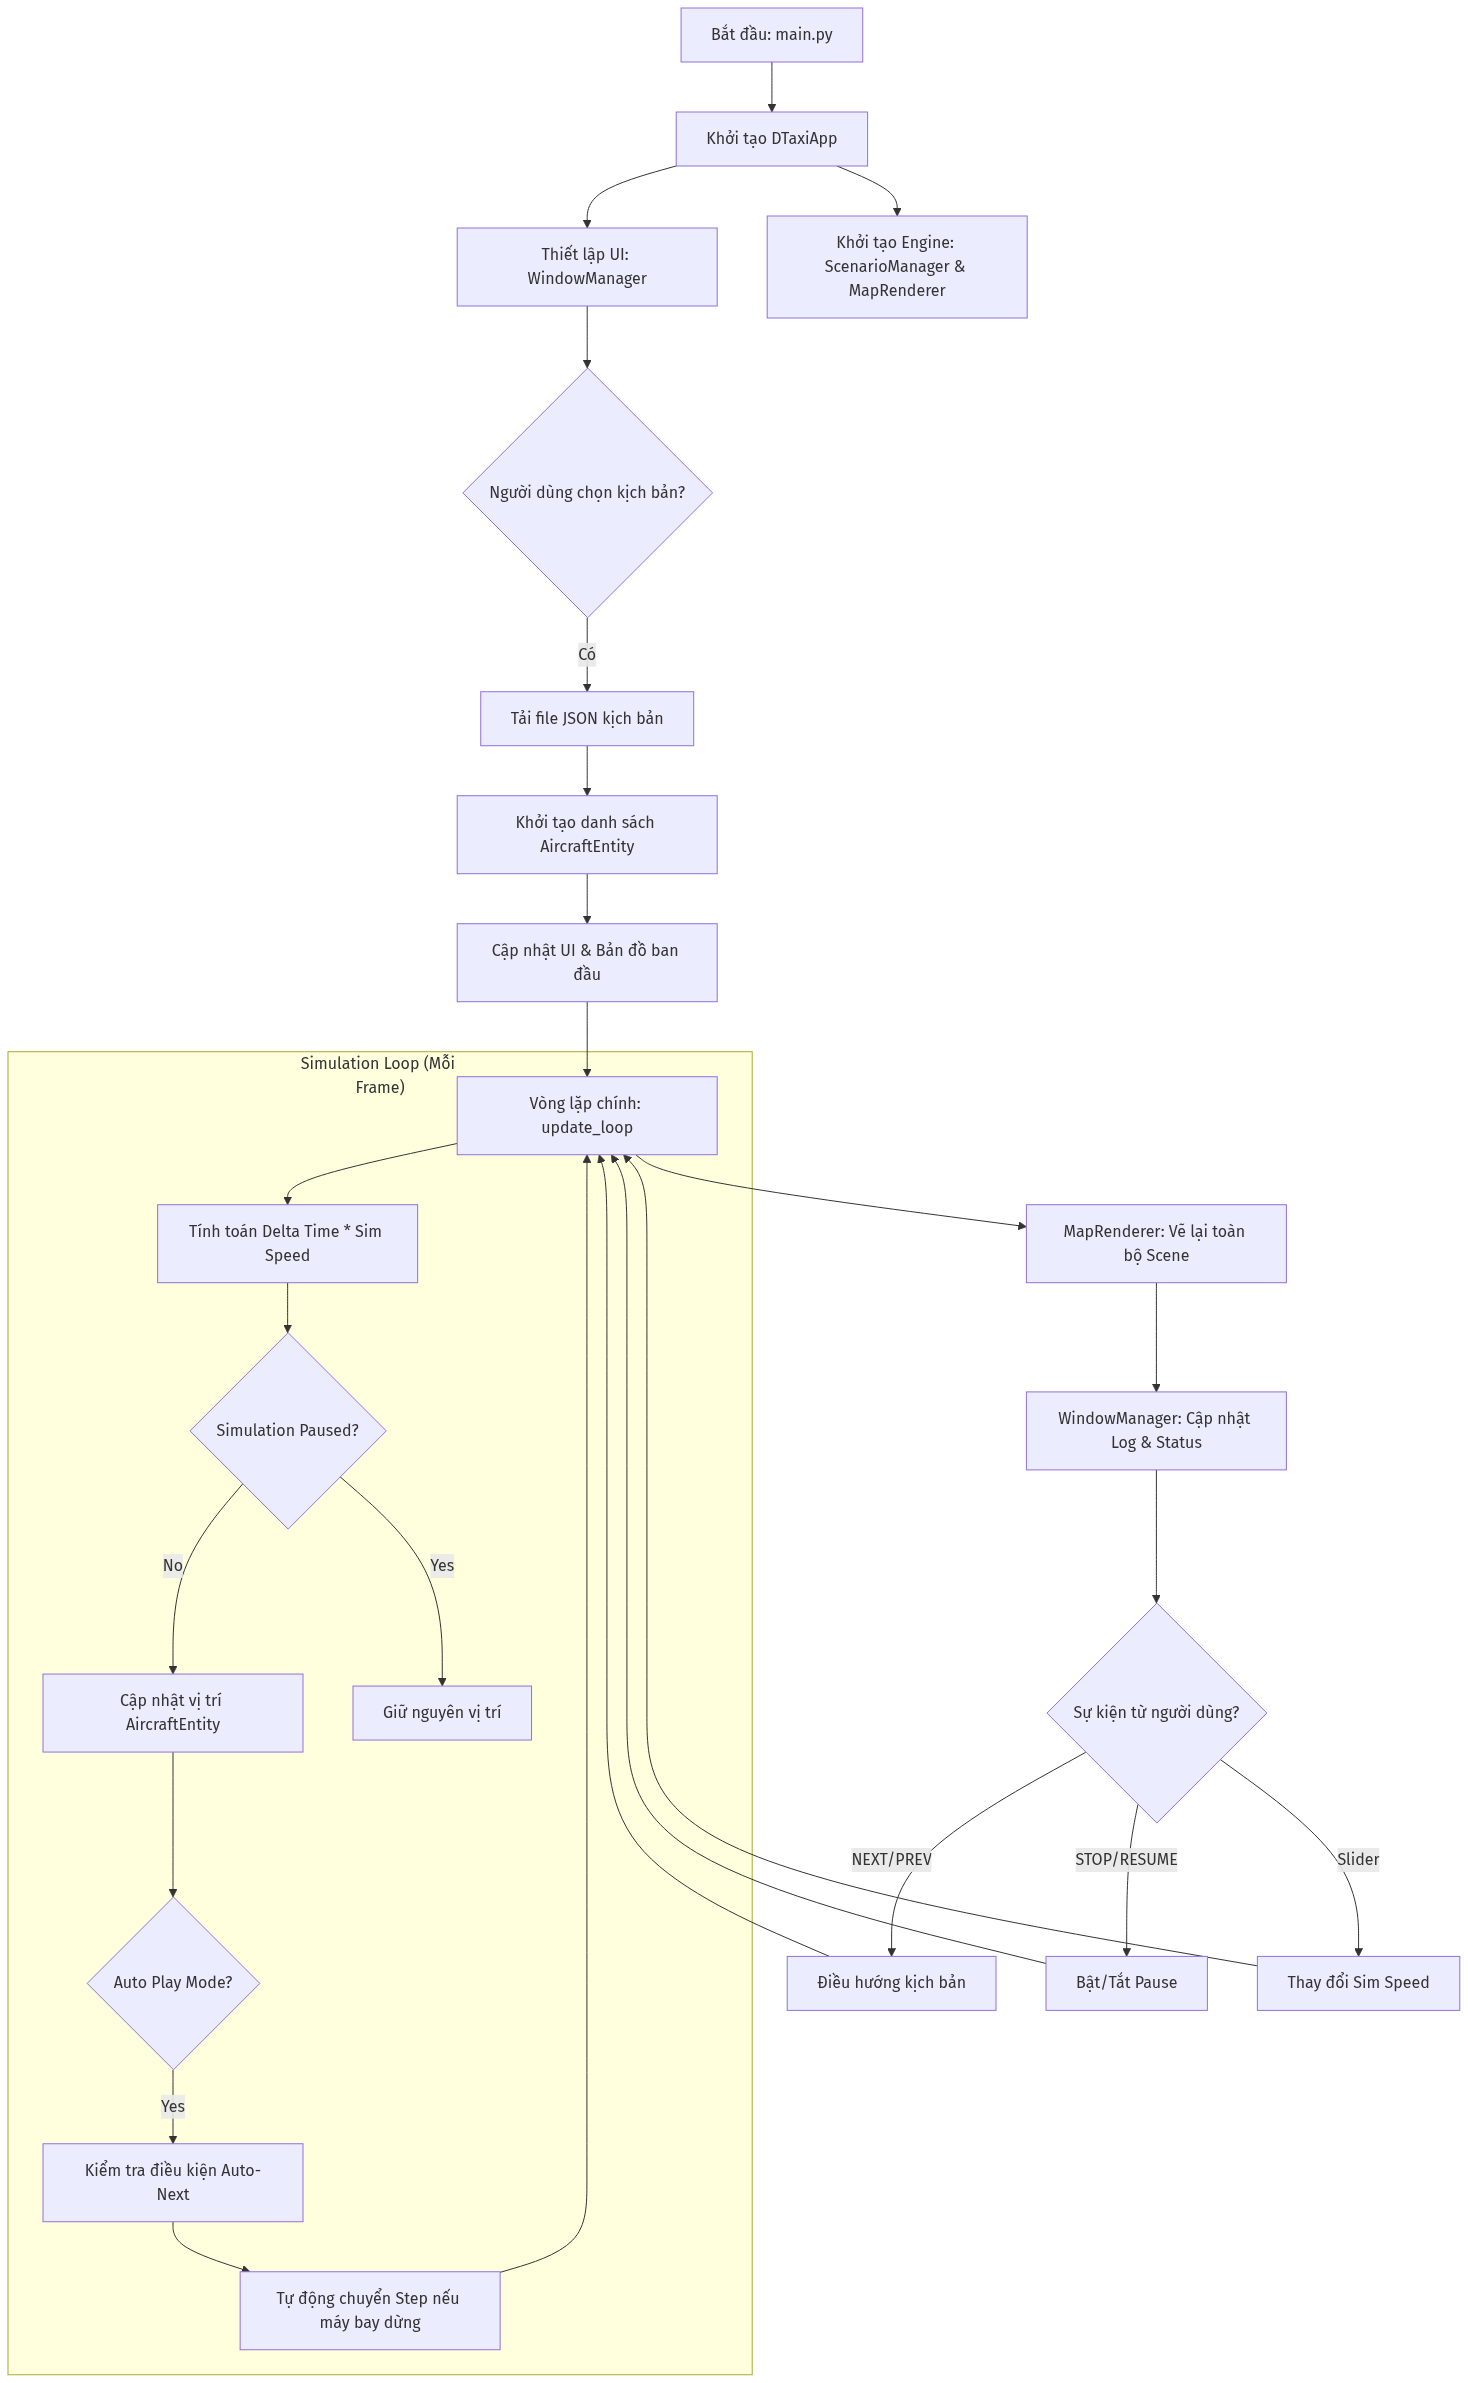
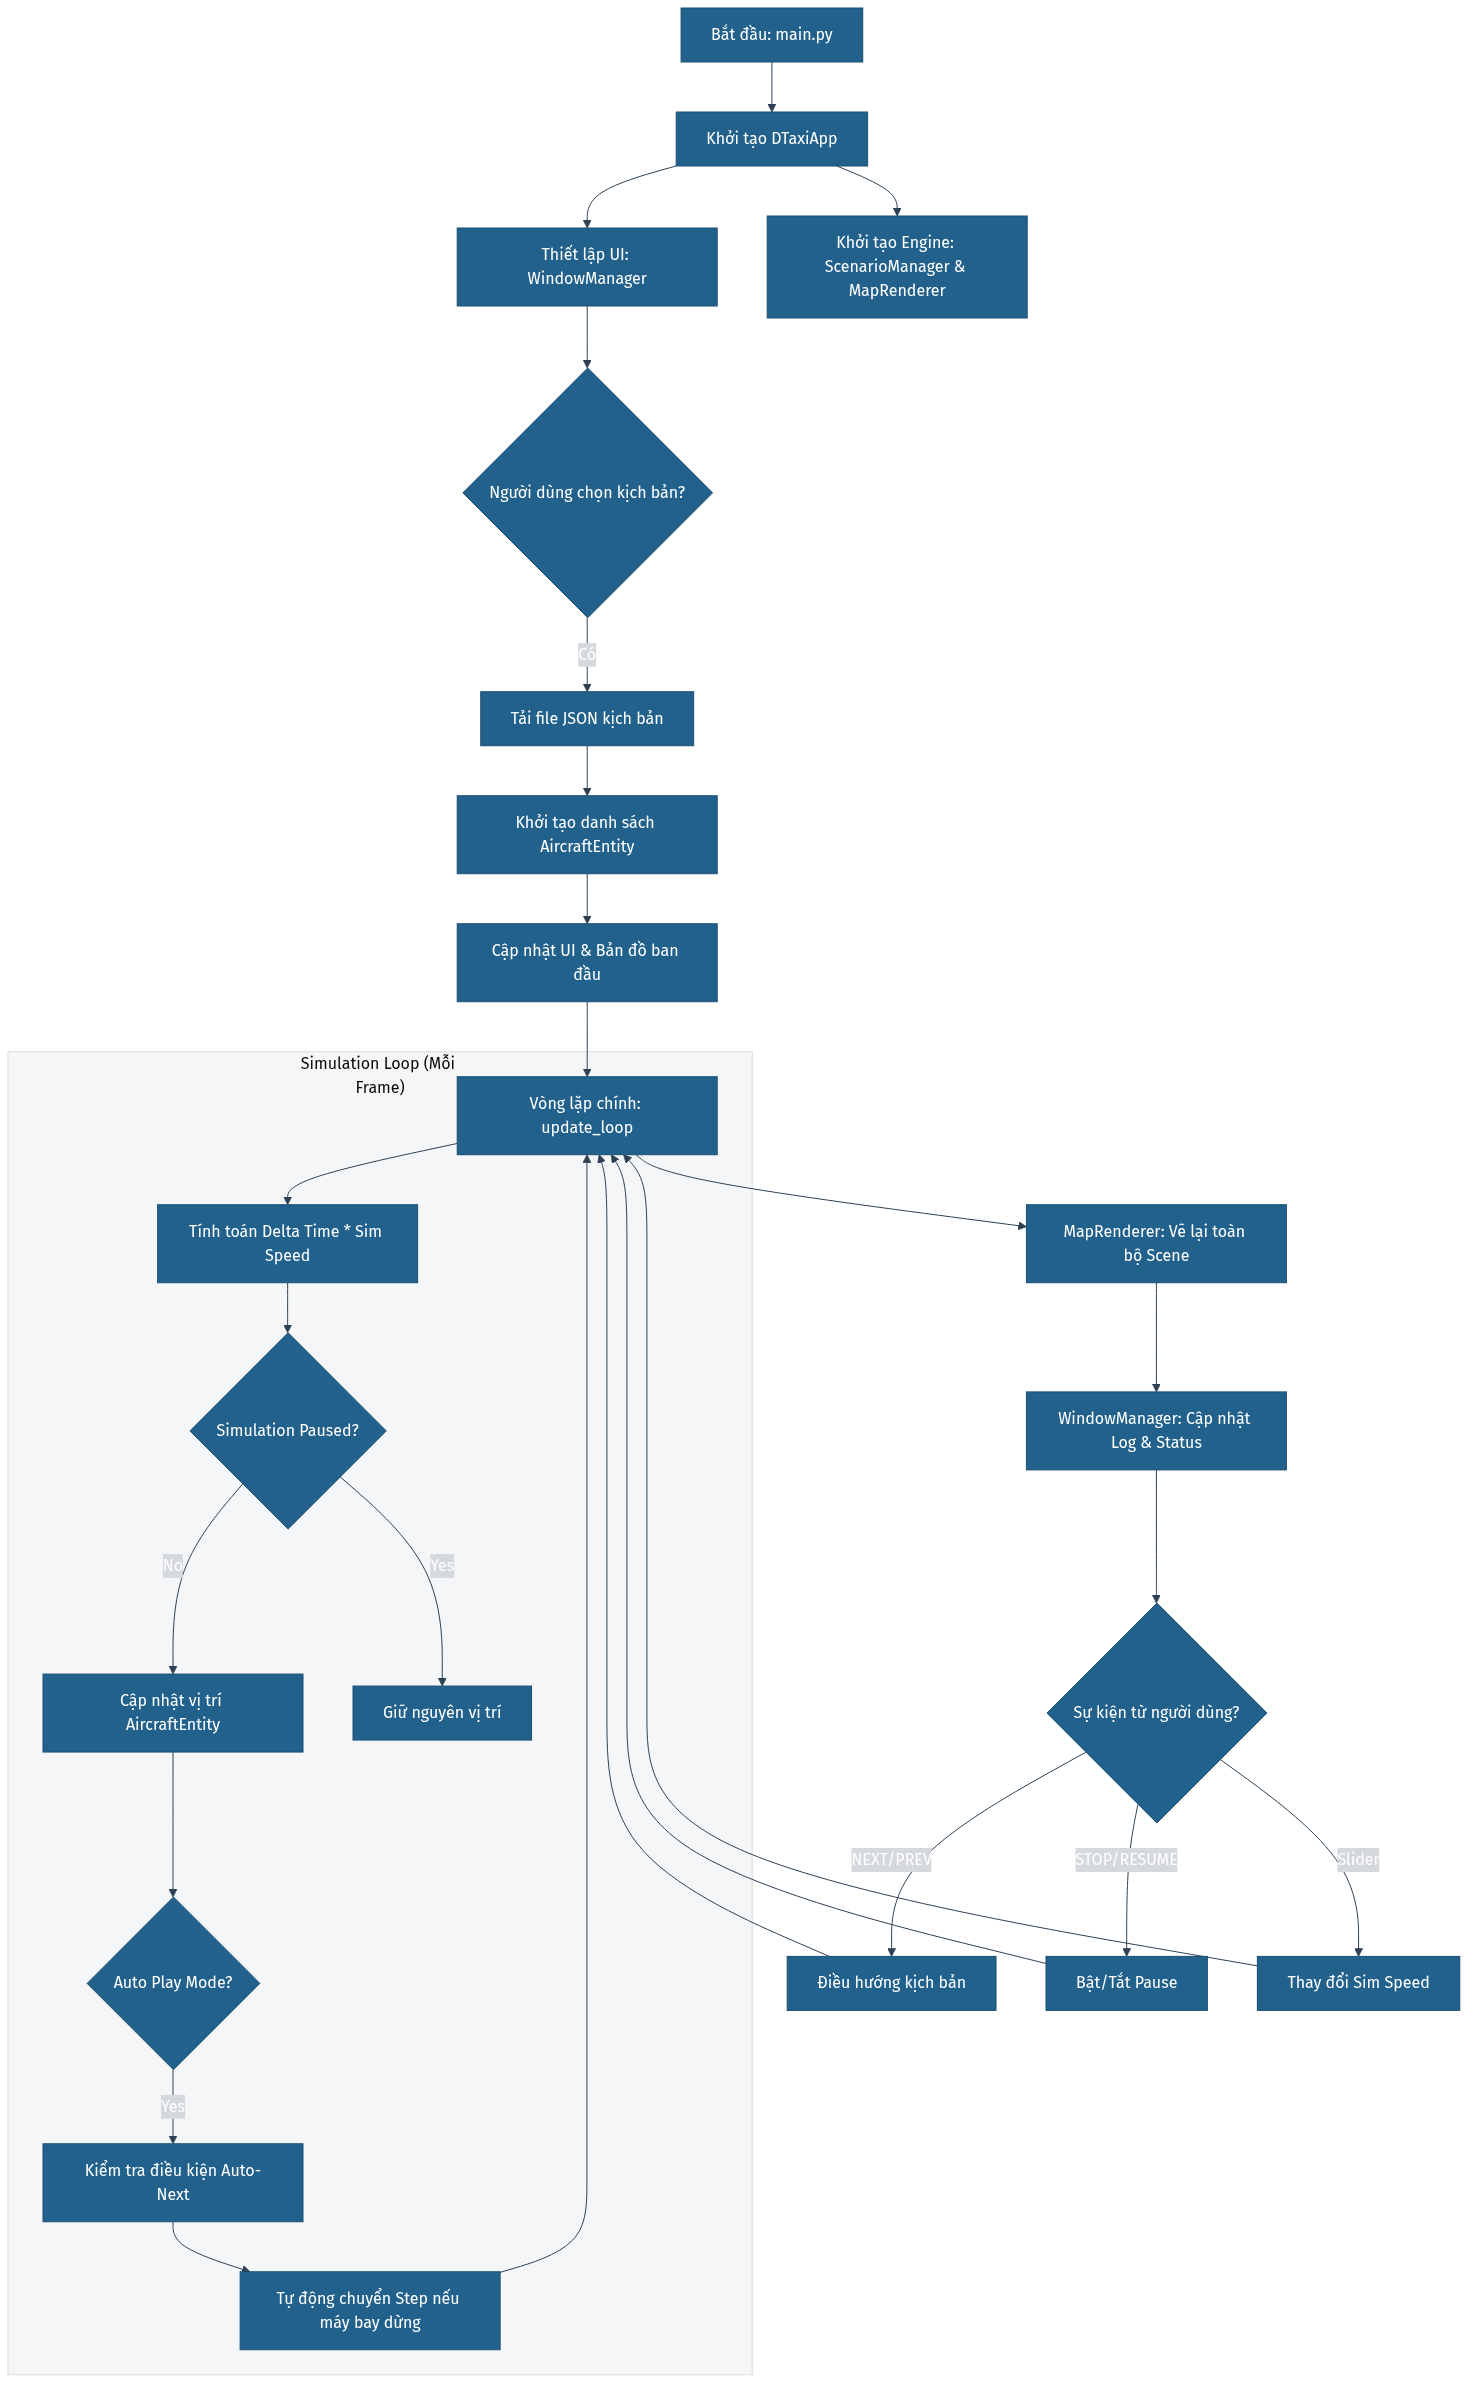
style: cập nhật màu sắc sơ đồ Mermaid chuyên nghiệp

diff --git a/scripts/export_mermaid.py b/scripts/export_mermaid.py
@@ -1,0 +1,64 @@
+import zlib
+import base64
+import requests
+import os
+
+mermaid_code = """%%{init: {'theme': 'base', 'themeVariables': { 'primaryColor': '#21618C', 'primaryTextColor': '#fff', 'primaryBorderColor': '#1B4F72', 'lineColor': '#2E4053', 'secondaryColor': '#D5D8DC', 'tertiaryColor': '#F4F6F7' }}}%%
+graph TD
+    A[Bắt đầu: main.py] --> B[Khởi tạo DTaxiApp]
+    B --> C[Thiết lập UI: WindowManager]
+    B --> D[Khởi tạo Engine: ScenarioManager & MapRenderer]
+    
+    C --> E{Người dùng chọn kịch bản?}
+    E -- Có --> F[Tải file JSON kịch bản]
+    F --> G[Khởi tạo danh sách AircraftEntity]
+    G --> H[Cập nhật UI & Bản đồ ban đầu]
+    
+    H --> I[Vòng lặp chính: update_loop]
+    
+    subgraph "Simulation Loop (Mỗi Frame)"
+        I --> J[Tính toán Delta Time * Sim Speed]
+        J --> K{Simulation Paused?}
+        K -- No --> L[Cập nhật vị trí AircraftEntity]
+        K -- Yes --> M[Giữ nguyên vị trí]
+        L --> N{Auto Play Mode?}
+        N -- Yes --> O[Kiểm tra điều kiện Auto-Next]
+        O --> P[Tự động chuyển Step nếu máy bay dừng]
+    end
+    
+    I --> Q[MapRenderer: Vẽ lại toàn bộ Scene]
+    Q --> R[WindowManager: Cập nhật Log & Status]
+    
+    R --> S{Sự kiện từ người dùng?}
+    S -- NEXT/PREV --> T[Điều hướng kịch bản]
+    S -- STOP/RESUME --> U[Bật/Tắt Pause]
+    S -- Slider --> V[Thay đổi Sim Speed]
+    
+    T --> I
+    U --> I
+    V --> I
+    P --> I"""
+
+def export_mermaid_kroki():
+    # Kroki algorithm: UTF-8 -> Zlib Compress -> Base64 URL Safe
+    payload = mermaid_code.encode('utf-8')
+    compressed = zlib.compress(payload, 9)
+    encoded = base64.urlsafe_b64encode(compressed).decode('ascii')
+    
+    url = f"https://kroki.io/mermaid/png/{encoded}"
+    
+    print(f"Dang tai anh tu Kroki: {url}")
+    response = requests.get(url)
+    
+    if response.status_code == 200:
+        output_path = "docs/040-Diagrams/Main_Flow.png"
+        os.makedirs(os.path.dirname(output_path), exist_ok=True)
+        with open(output_path, "wb") as f:
+            f.write(response.content)
+        print(f"Da luu anh vao: {output_path}")
+    else:
+        print(f"Loi khi tai anh tu Kroki: {response.status_code}")
+        print(response.text)
+
+if __name__ == "__main__":
+    export_mermaid_kroki()

diff --git a/README.md b/README.md
@@ -67,6 +67,7 @@ Dưới đây là sơ đồ khối mô tả cách ứng dụng kết nối giữ
 ![Sơ đồ luồng xử lý chính](docs/040-Diagrams/Main_Flow.png)
 
 ```mermaid
+%%{init: {'theme': 'base', 'themeVariables': { 'primaryColor': '#21618C', 'primaryTextColor': '#fff', 'primaryBorderColor': '#1B4F72', 'lineColor': '#2E4053', 'secondaryColor': '#D5D8DC', 'tertiaryColor': '#F4F6F7' }}}%%
 graph TD
     A[Bắt đầu: main.py] --> B[Khởi tạo DTaxiApp]
     B --> C[Thiết lập UI: WindowManager]
